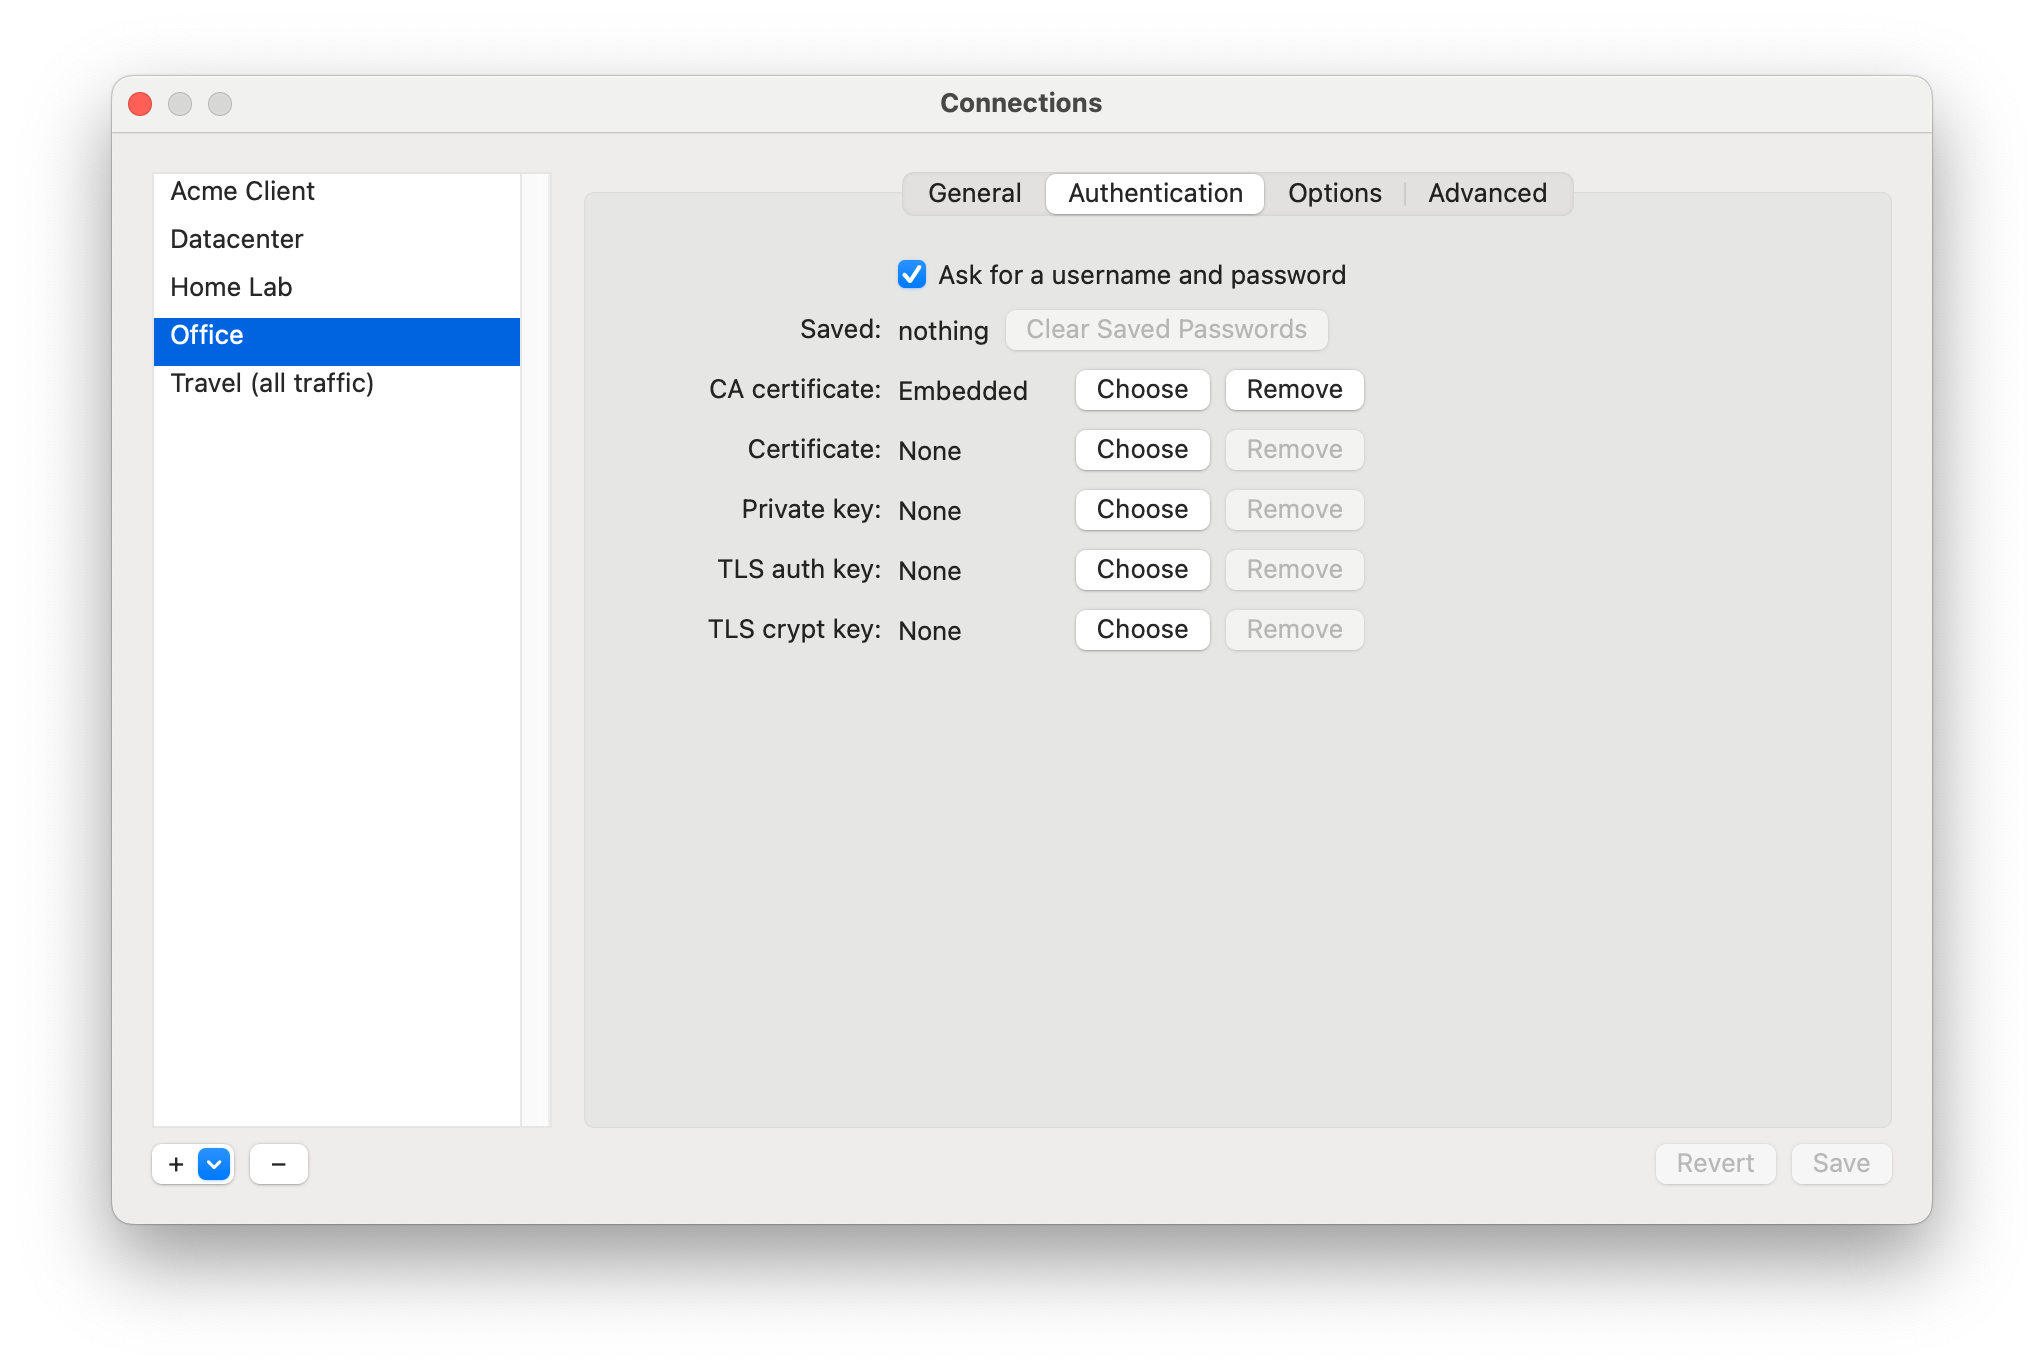
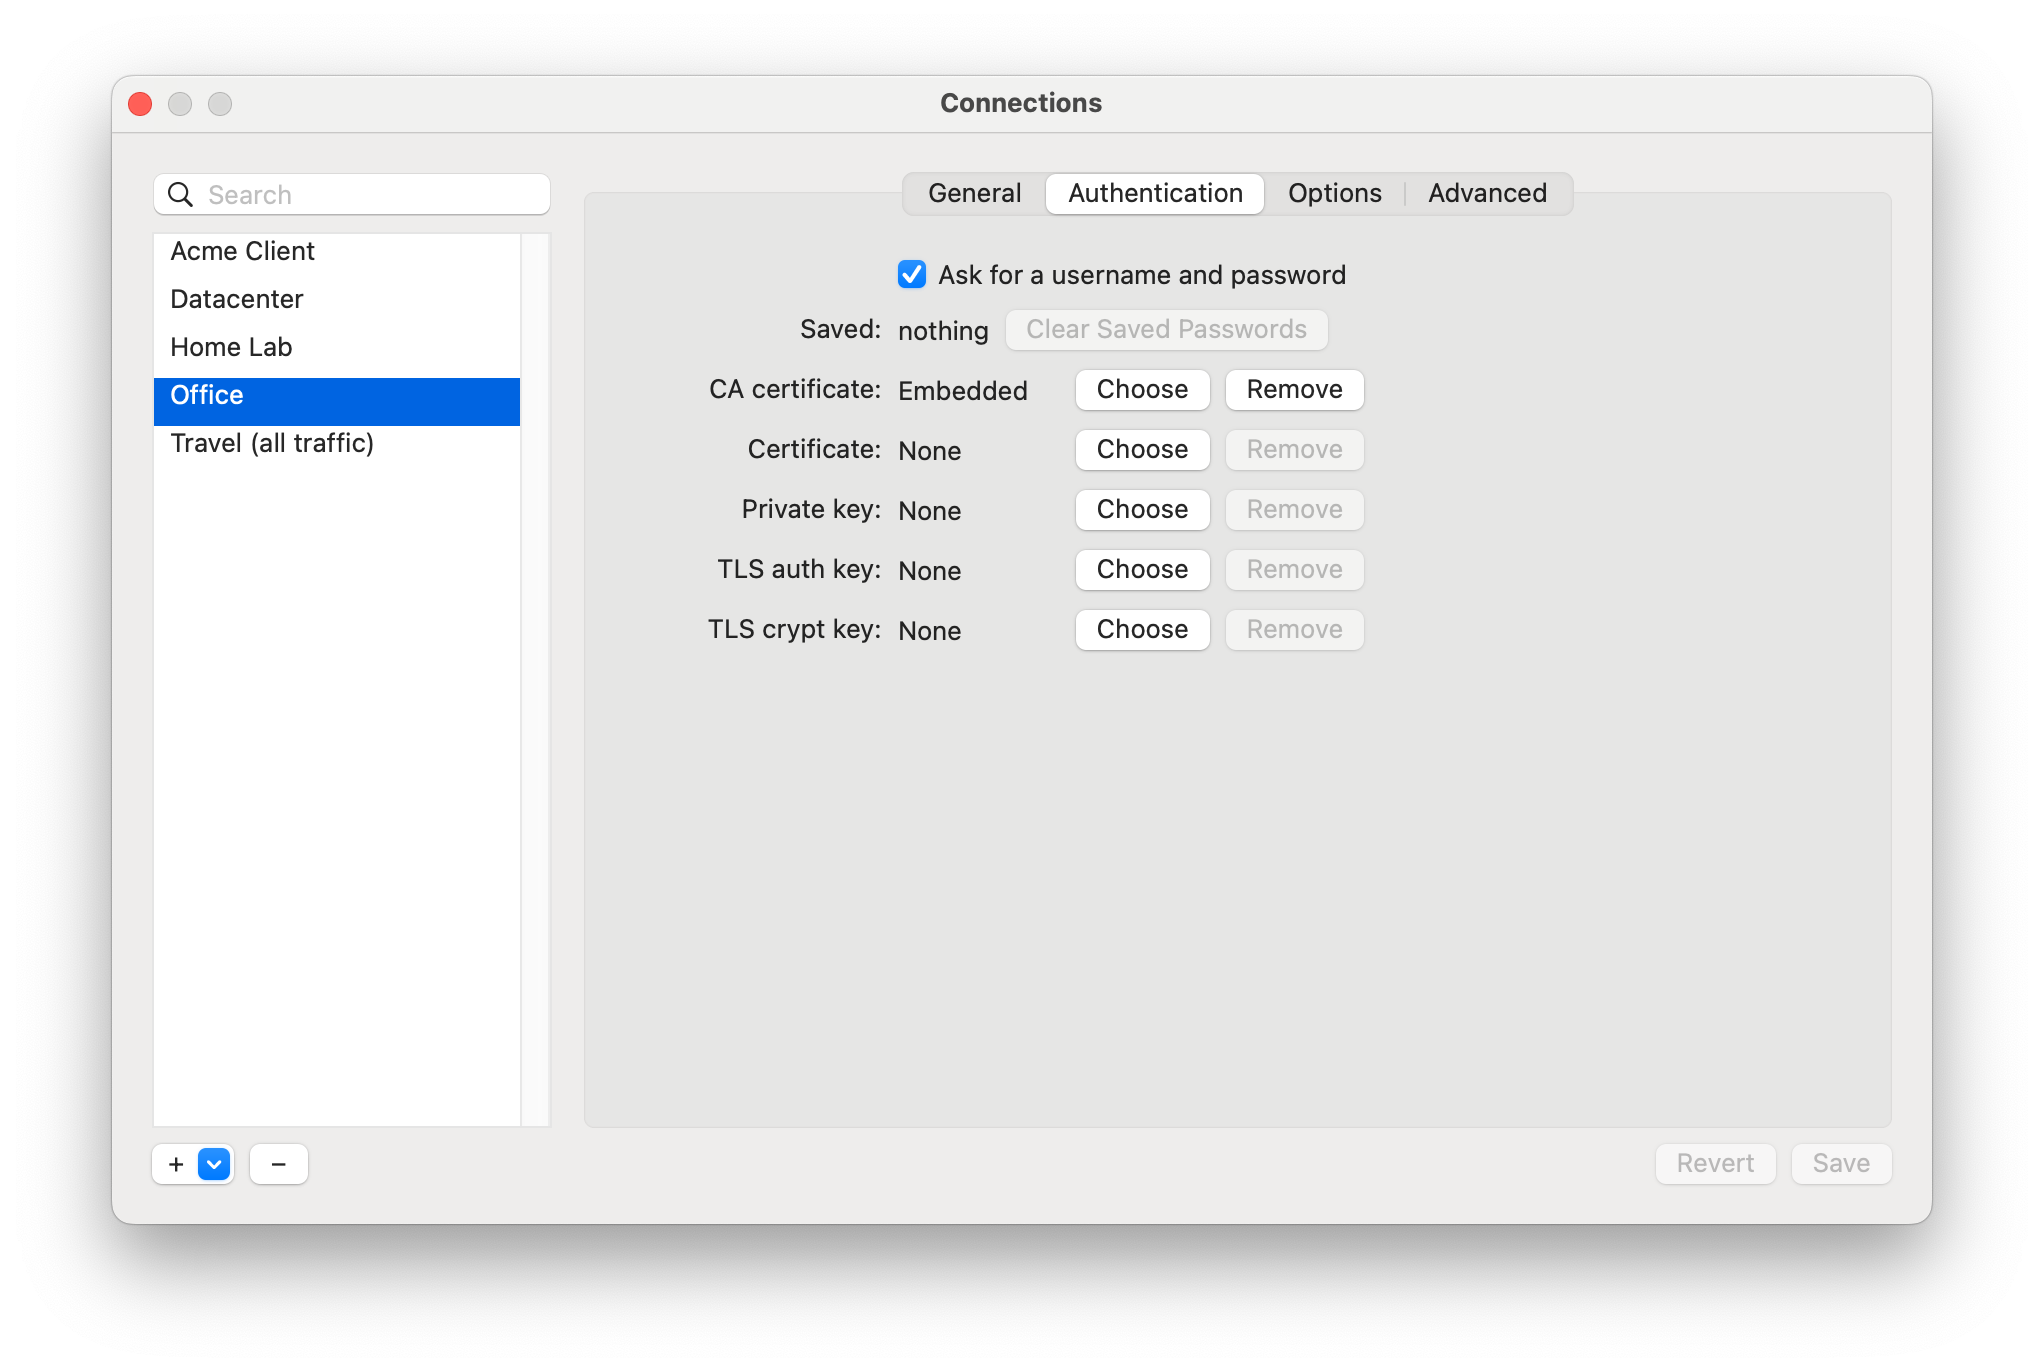
Release docs: install from the signed, notarized DMG (or build), new screenshots (Disconnect All, Export Diagnostics, search), site and FAQ for travel, scripts and admins; Connections window gives the list the keyboard first

Changed region(s): [[0.0616, 0.1224, 0.2774, 0.3367]]

diff --git a/docs/faq.html b/docs/faq.html
@@ -26,10 +26,14 @@
      "acceptedAnswer": {"@type": "Answer", "text": "Yes, per connection. If a connection that carries all traffic drops unexpectedly, MugVPN blocks your TCP and UDP traffic outside the VPN with the macOS packet filter until you reconnect or unblock it from the menu."}},
     {"@type": "Question", "name": "Can I import my Tunnelblick or Viscosity configurations?",
      "acceptedAnswer": {"@type": "Answer", "text": "Tunnelblick .tblk folders and standard .ovpn files (Viscosity exports them) import directly, with the keys and certificates they name."}},
+    {"@type": "Question", "name": "Does MugVPN work on hotel and airport Wi-Fi?",
+     "acceptedAnswer": {"@type": "Answer", "text": "Yes. When a network asks for a sign-in page first, MugVPN offers it from the menu; if its kill switch is blocking the Internet, it lifts the block for two minutes so the page can load. It reconnects the tunnels when the network changes."}},
+    {"@type": "Question", "name": "Can I control MugVPN from scripts?",
+     "acceptedAnswer": {"@type": "Answer", "text": "Yes. MugVPN --command connect, disconnect, reconnect, status and list answer once done, with exit codes and JSON; --wait waits for the connection to come up or go down."}},
     {"@type": "Question", "name": "Is MugVPN free?",
      "acceptedAnswer": {"@type": "Answer", "text": "Yes, it is free and open source under the MIT License."}},
-    {"@type": "Question", "name": "Why is there no download yet?",
-     "acceptedAnswer": {"@type": "Answer", "text": "MugVPN installs a helper that runs as root. Until it is signed with an Apple Developer ID and notarized, it should be built from source."}},
+    {"@type": "Question", "name": "Where do I download MugVPN? Is it signed?",
+     "acceptedAnswer": {"@type": "Answer", "text": "From the latest release on GitHub: a DMG signed with an Apple Developer ID and notarized by Apple, with its SHA-256 beside it. You can also build it from source."}},
     {"@type": "Question", "name": "Does openvpn run as root in MugVPN?",
      "acceptedAnswer": {"@type": "Answer", "text": "No. Each tunnel's openvpn runs unprivileged; a small helper does what needs root, after checking each request."}}
   ]
@@ -60,8 +64,14 @@
   <details><summary>Is it safe to give a VPN app root? Does openvpn run as root?</summary>
   <p>Something has to be root to create tunnels, routes and DNS — but not openvpn itself. In MugVPN each tunnel's <code>openvpn</code> runs unprivileged, and a small helper does what needs root after checking each request. Profiles are checked before they run.</p></details>
 
-  <details><summary>Why is there no download?</summary>
-  <p>Because MugVPN installs a helper that runs as root, its builds should be signed with an Apple Developer ID and notarized. Until then, build it from source — a few minutes with the Xcode Command Line Tools (see the <a href="./#build">instructions</a>).</p></details>
+  <details><summary>Where do I download it? Is it signed?</summary>
+  <p>From the <a href="https://github.com/tanderbold/MugVPN/releases/latest">latest release</a>: a DMG signed with an Apple Developer ID and notarized by Apple, with its SHA-256 beside it. Open it, drag MugVPN to Applications, and allow its helper when macOS asks on the first connection. You can also <a href="./#build">build it from source</a>.</p></details>
+
+  <details><summary>Does it work on hotel and airport Wi-Fi?</summary>
+  <p>Yes. When a network asks for a sign-in page first, MugVPN offers <b>Sign in to This Network…</b> in its menu; if the kill switch is blocking the Internet, the block is lifted for two minutes so the page can load. When you move to another network, the tunnels reconnect at once.</p></details>
+
+  <details><summary>Can I control it from scripts?</summary>
+  <p>Yes: <code>MugVPN --command connect|disconnect|reconnect|status|list</code> answers once the command is done, with exit codes and JSON output; <code>--wait</code> waits until the connection is up (or down). See the <a href="https://github.com/tanderbold/MugVPN#command-line">README</a>.</p></details>
 
   <details><summary>Which macOS versions and Macs?</summary>
   <p>macOS 13 Ventura or later, on Apple silicon and Intel Macs. The interface is in 22 languages.</p></details>

diff --git a/docs/index.html b/docs/index.html
@@ -46,6 +46,8 @@
     "Persistent connections at boot"
   ],
   "offers": { "@type": "Offer", "price": "0", "priceCurrency": "USD" },
+  "softwareVersion": "0.2.0",
+  "downloadUrl": "https://github.com/tanderbold/MugVPN/releases/latest",
   "isAccessibleForFree": true,
   "license": "https://opensource.org/licenses/MIT",
   "url": "https://tanderbold.github.io/MugVPN/",
@@ -76,7 +78,7 @@
     <span>◆ macOS 13+</span>
     <span>◆ 22 languages</span>
   </p>
-  <p class="cta"><a href="https://github.com/tanderbold/MugVPN">Source on GitHub</a><a href="#build">Build it</a><a href="faq.html">FAQ</a></p>
+  <p class="cta"><a href="https://github.com/tanderbold/MugVPN/releases/latest">Download</a><a href="https://github.com/tanderbold/MugVPN">Source on GitHub</a><a href="faq.html">FAQ</a></p>
 
   <div class="shots">
     <figure><img src="screenshots/menu.png" alt="The MugVPN menu with three VPN connections up at once" loading="lazy"><figcaption>Three connections up at once, each in its own submenu</figcaption></figure>
@@ -94,6 +96,8 @@
     <div class="card"><h3>Connections window</h3><p>Create, edit, duplicate and delete connections in a form or as text: servers, certificates, keys, sign-in.</p></div>
     <div class="card"><h3>Easy import</h3><p><code>.ovpn</code> files with their keys, Tunnelblick <code>.tblk</code> folders, profiles from a URL or an OpenVPN Access Server.</p></div>
     <div class="card"><h3>Every way to sign in</h3><p>Passwords (in the Keychain), OTP challenges, web/SSO sign-in, PKCS#12 certificates, HTTP proxies.</p></div>
+    <div class="card"><h3>On the road</h3><p>Reconnects at once after sleep and when the network changes — another Wi-Fi, a new router; hotel and airport sign-in pages are offered from the menu, even while the kill switch blocks.</p></div>
+    <div class="card"><h3>For admins and scripts</h3><p>Persistent connections that start at boot with their own kill switch; a command line with exit codes and JSON; a diagnostics archive without keys or passwords.</p></div>
     <div class="card"><h3>openvpn without root</h3><p>openvpn runs unprivileged; a small helper does what needs root, and checks what it is asked.</p></div>
   </div>
 
@@ -103,7 +107,7 @@
   </div>
 
   <h2 id="build">Get it</h2>
-  <p>There is no signed download yet — MugVPN waits for an Apple Developer ID, and a VPN helper that runs as root should not come from an unsigned download. Building takes a few minutes and needs only the Xcode Command Line Tools:</p>
+  <p>Download the latest <a href="https://github.com/tanderbold/MugVPN/releases/latest">MugVPN DMG</a> — signed with a Developer ID and notarized by Apple — open it and drag MugVPN to Applications. Or build it yourself; that takes a few minutes and needs only the Xcode Command Line Tools:</p>
   <pre><code>git clone https://github.com/tanderbold/MugVPN.git
 cd MugVPN
 tools/build-openvpn.sh             # openvpn 2.7 and its libraries, from pinned sources

diff --git a/Sources/MugVPN/Connections.swift b/Sources/MugVPN/Connections.swift
@@ -299,6 +299,8 @@ final class ConnectionsWindow: NSObject, NSTableViewDataSource, NSTableViewDeleg
             return take
         }
         window.contentView = container
+        // The list has the keyboard first (arrows pick a connection); the search field when clicked.
+        window.initialFirstResponder = list
         all.translatesAutoresizingMaskIntoConstraints = false
         container.addSubview(all)
         NSLayoutConstraint.activate([

diff --git a/Tests/UI/test_zz_screenshots.py b/Tests/UI/test_zz_screenshots.py
@@ -21,7 +21,7 @@ PROFILES = {
     "Travel (all traffic)": ("remote travel.example.com 443 tcp\nredirect-gateway def1\n", ""),
 }
 LOG = [
-    "OpenVPN 2.7.7 aarch64-apple-darwin [SSL (OpenSSL)] [LZO] [LZ4] [AEAD]",
+    "OpenVPN 2.7.8 aarch64-apple-darwin [SSL (OpenSSL)] [LZO] [LZ4] [MH/RECVDA] [AEAD]",
     "TCP/UDP: Preserving recently used remote address: [AF_INET]203.0.113.10:1194",
     "UDPv4 link remote: [AF_INET]203.0.113.10:1194",
     "VERIFY OK: depth=1, CN=Office VPN CA",

diff --git a/README.md b/README.md
@@ -73,15 +73,17 @@ macOS 13 Ventura or later, Apple silicon or Intel.
 
 ## Install
 
-There is no signed release yet: MugVPN is waiting for an Apple Developer ID, and a root helper
-from an unsigned build is not something to install from a download. Build it from source (below),
-copy `build/MugVPN.app` to `/Applications` and open it. The first time you connect, macOS asks you to
+Download `MugVPN-<version>.dmg` from the [latest release](https://github.com/tanderbold/MugVPN/releases/latest)
+(signed with a Developer ID and notarized by Apple; its SHA-256 is beside it), open it and drag
+MugVPN to **Applications**, then open it from there. The first time you connect, macOS asks you to
 allow MugVPN's helper in **System Settings > General > Login Items**; MugVPN opens that page for you.
+Install it as an administrator. A newer version replaces the app in the same way; its helper is
+updated once no connection needs it.
 
-The first build makes a code-signing certificate of your own, kept in
-`~/Library/Application Support/MugVPN Build`; MugVPN's helper then works only with an app signed
-with it, so it trusts what runs as your account (the uninstaller leaves that folder; delete it when
-you no longer build MugVPN). Install the build as an administrator.
+Or build it yourself ([Building](#building)): copy `build/MugVPN.app` to `/Applications`. The first
+build makes a code-signing certificate of your own, kept in `~/Library/Application Support/MugVPN Build`;
+MugVPN's helper then works only with an app signed with it, so it trusts what runs as your account
+(the uninstaller leaves that folder; delete it when you no longer build MugVPN).
 
 **Macs with standard users.** Routes and DNS are the whole Mac's, so by default a standard
 (non-administrator) user's connections reach only private networks (10/8, 172.16/12, 192.168/16,
